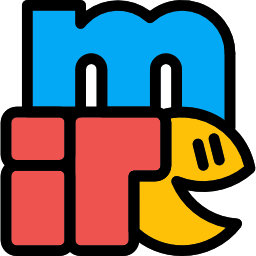
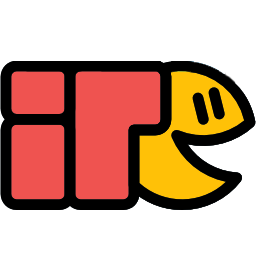
mIRC renamed to IRC

diff --git a/src/View/Widgets/ChatDialog.cpp b/src/View/Widgets/ChatDialog.cpp
@@ -7,7 +7,7 @@ ChatDialog::ChatDialog(DinoDent* parent) : QDialog(parent)
 {
 	ui.setupUi(this);
 	
-	setWindowTitle("mIRC чат");
+	setWindowTitle("IRC чат");
 	setWindowIcon(QIcon(":/icons/icon_mirc_glow.png"));
 
 	userColor = QColor(38, 124, 121).name();
